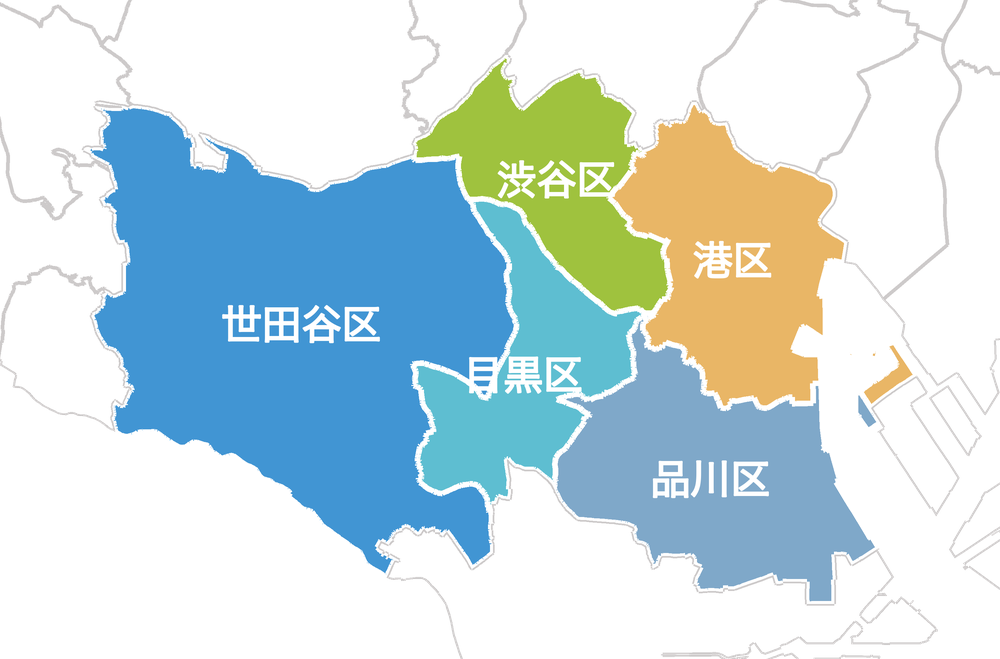
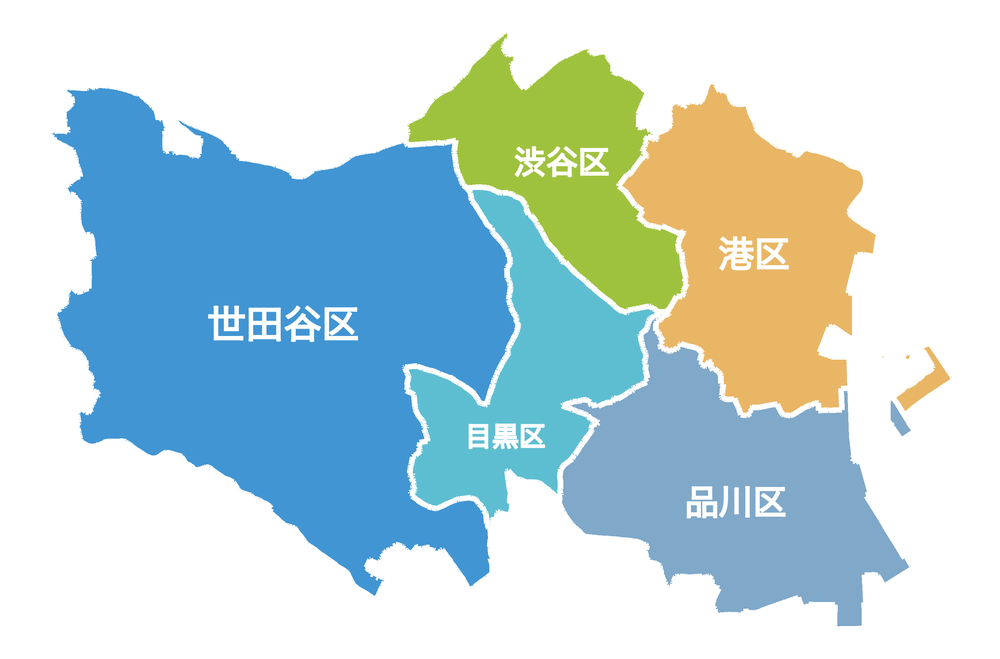
エリア地図: 周辺区を削除し5区のみに、目黒区ラベル位置を修正

diff --git a/mobile-car-wash/index.html b/mobile-car-wash/index.html
@@ -2703,7 +2703,7 @@ a[href^="https://lin.ee"]:hover {
             <p class="sec-eyebrow">ご自宅まで伺います</p>
             <h2 class="sec-title">サービス提供エリア</h2>
             <p class="discription fonts"><span class="bold">世田谷区/目黒区/渋谷区/港区/品川区</span><br>サービス提供エリアは順次拡大中です。利用時間・日時によっては対応できないエリアもございますので、詳細はお問い合わせくださいませ。</p>
-            <img src="/assets/images/map.png?v=5ku2" alt="エリアマップ" loading="lazy" decoding="async">
+            <img src="/assets/images/map.png?v=5ku3" alt="エリアマップ" loading="lazy" decoding="async">
         </section>
 
 
